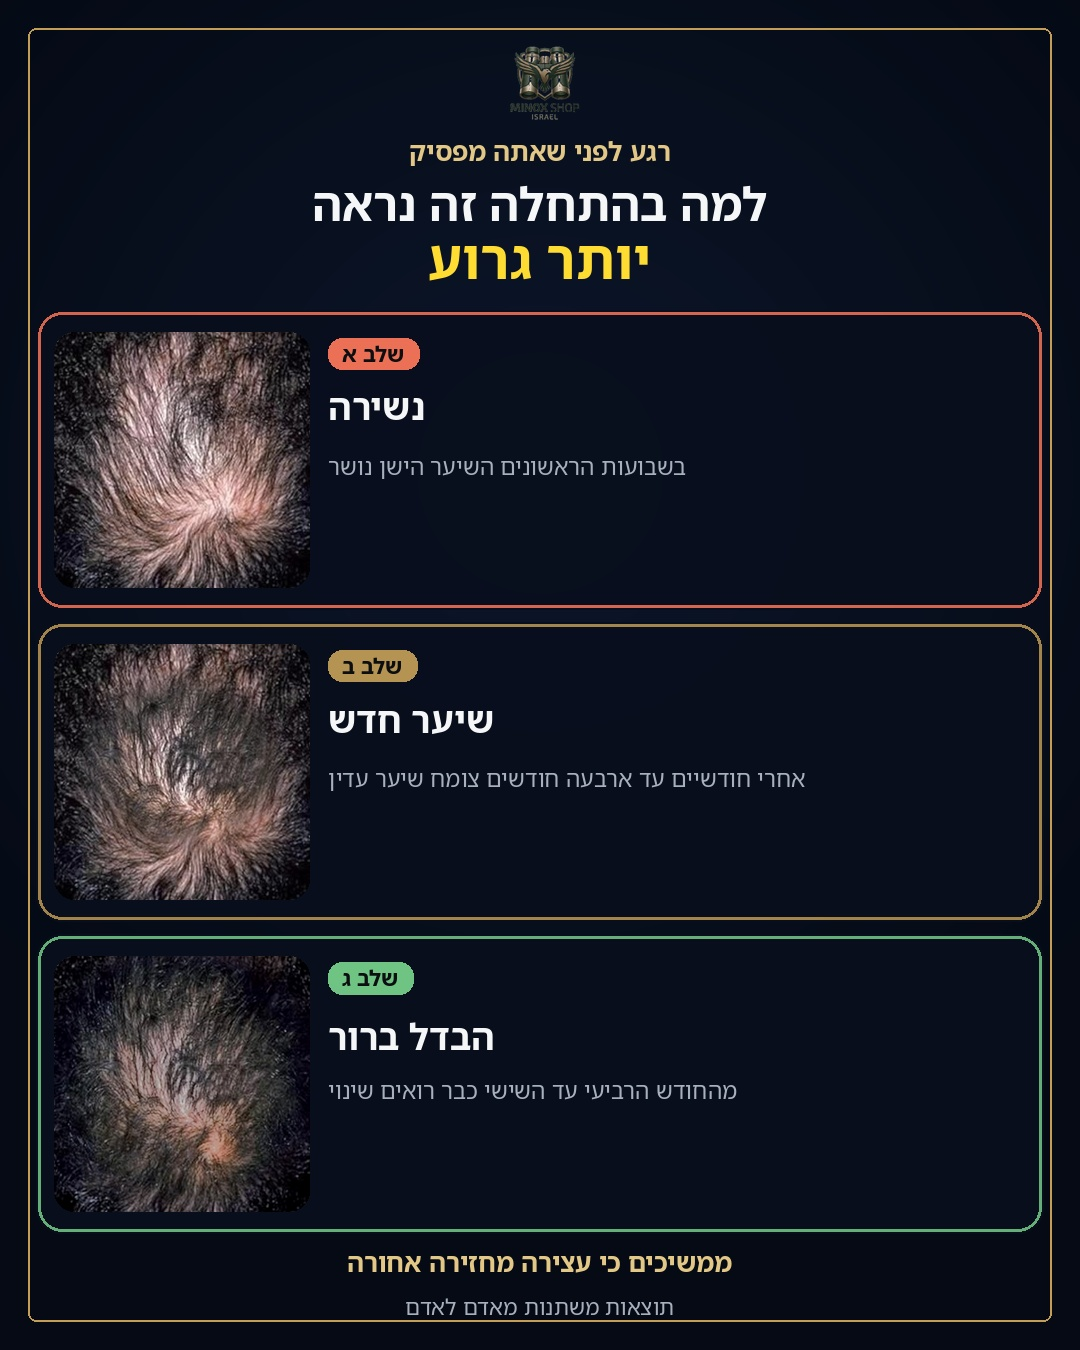
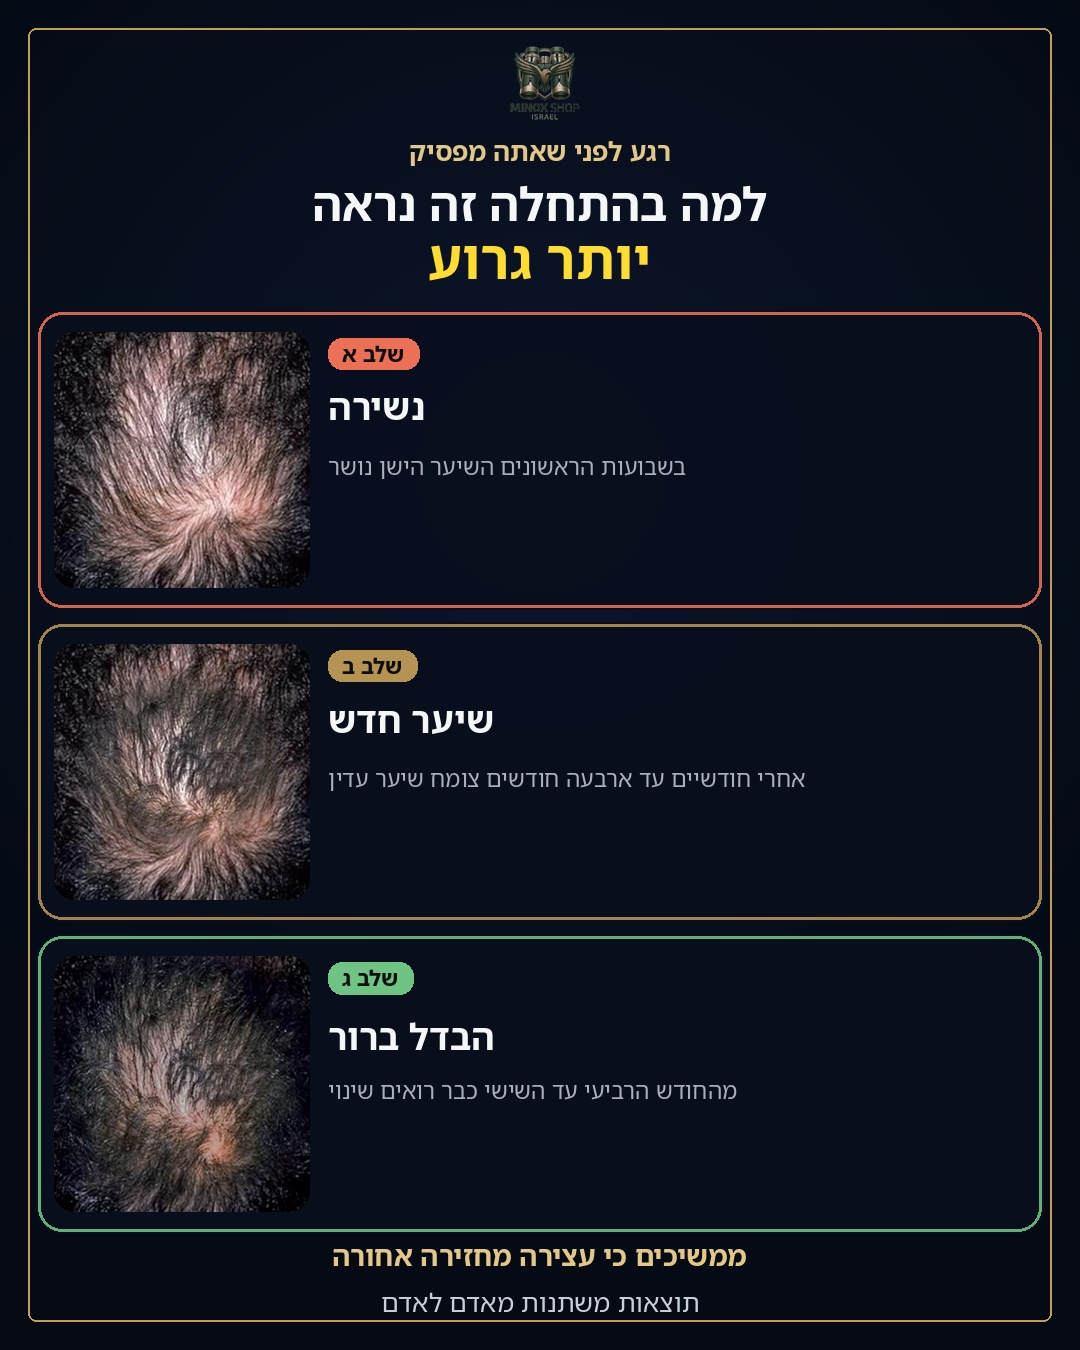
Brighten and enlarge disclaimer so footer Hebrew reads clean

Changed region(s): [[0.3056, 0.9022, 0.7028, 0.9956]]

diff --git a/scripts/build_minox_static_shed_stages_v3.py b/scripts/build_minox_static_shed_stages_v3.py
@@ -319,9 +319,9 @@ def build() -> Image.Image:
         im.alpha_composite(card, (36, y))
         y += 312
 
-    # footer well inside frame
-    center_he(im, "ממשיכים כי עצירה מחזירה אחורה", 1255, 26, GOLD_SOFT, True)
-    center_he(im, "תוצאות משתנות מאדם לאדם", 1298, 22, MUTED, False)
+    # footer well inside frame — larger/brighter so disclaimer doesn't look broken
+    center_he(im, "ממשיכים כי עצירה מחזירה אחורה", 1248, 28, GOLD_SOFT, True)
+    center_he(im, "תוצאות משתנות מאדם לאדם", 1292, 26, (200, 206, 218), False)
     return im.convert("RGB")
 
 
